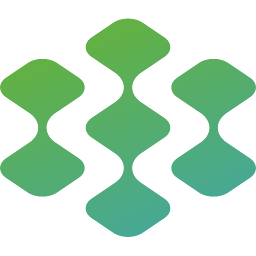
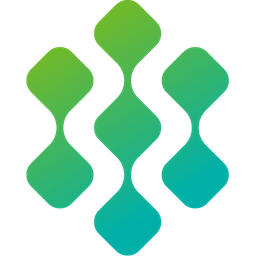
fix: preserve Pylontech brand proportions
Rebuild the logo and square icons from the supplied upright master artwork without stretching the mark.

diff --git a/CHANGELOG.md b/CHANGELOG.md
@@ -1,5 +1,11 @@
 # Changelog
 
+## 0.4.2 - 2026-08-05
+
+- Rebuilt all brand assets from the supplied upright Pylontech master artwork.
+- Preserved the original logo aspect ratio and generated square icons with
+  transparent side padding instead of stretching the mark.
+
 ## 0.4.1 - 2026-08-05
 
 - Added the official Pylontech icon and wordmark as local Home Assistant brand
